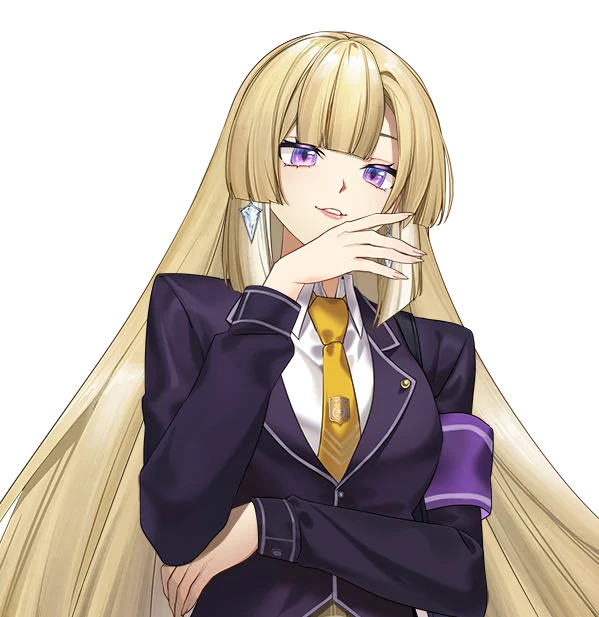
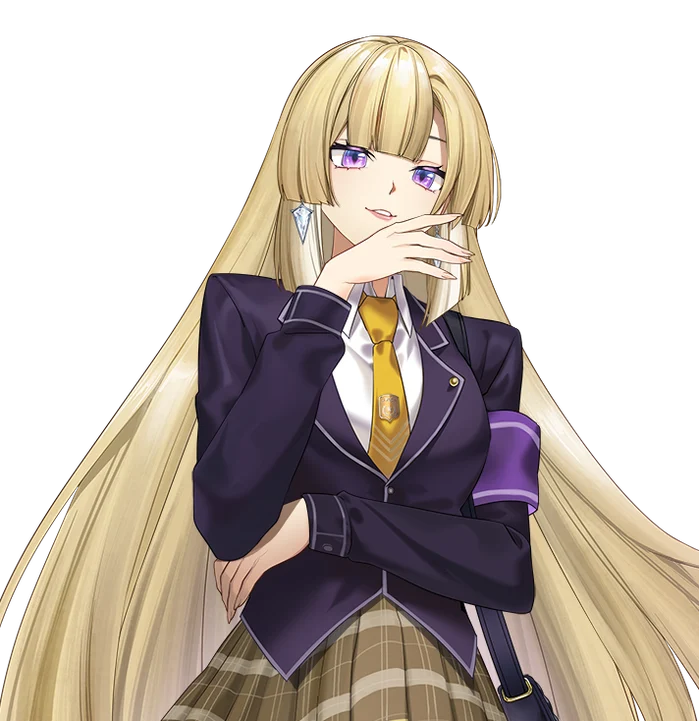
Wider look-2 half-body for Anya and Riona
Claude-Session: https://claude.ai/code/session_0182ETGqkY6VZC2ACV9rE9Mb

diff --git a/index.html b/index.html
@@ -950,8 +950,8 @@ var TALENTS = [
   { id:'lucene', halves:['talent-lucene-half.webp'], card:'talent-lucene-half.webp', img:'talent-lucene.webp', face:'talent-lucene-face.webp?v=7',  name:'Lucene', short:'Lucene', ini:'LC', type:'VTuber', aff:{name:'Polygon', logo:'logos/polygon-mark.png'}, langs:['th','en'], color:'#FDE2EE', tags:['#Singing','#FreeTalk','#Gaming','#Gacha'], works:['promo','review','cover','collab','dub'], links:[['YouTube',83400,'https://www.youtube.com/@LucenePLG'],['TikTok',24071,'https://www.tiktok.com/@plglucene'],['Facebook',20102,'https://www.facebook.com/LucenePolygon'],['X',19508,'https://x.com/LucenePLG']], quote:['ลูเซเน่ กระต่ายอนิเมะผู้เสกความสดใสและชอบเสี่ยงดวง💸','Lucene, an anime bunny who conjures up cheer and loves to try her luck 💸'] },
   { id:'lapine', halves:['talent-lapine-half.webp?v=3'], card:'talent-lapine-half.webp?v=3', img:'talent-lapine.webp', face:'talent-lapine-face.webp?v=7',  name:'Lapine', short:'Lapine', ini:'LP', type:'VTuber', aff:{name:'Polygon', logo:'logos/polygon-mark.png'}, langs:['th','en'], color:'#FFD9E4', tags:['#Singing','#FreeTalk','#Gaming'], works:['promo','review','cover','collab','dub'], links:[['YouTube',69355,'https://www.youtube.com/@LapinePLG'],['TikTok',8885,'https://www.tiktok.com/@lapineplg'],['Facebook',16150,'https://www.facebook.com/LapinePolygon'],['X',20482,'https://x.com/LapinePLG']], quote:['ลาพิเน่ กระต่ายสีชมพูที่คุณดูแล้วต้องกำหมัด','Lapine, the pink bunny so cute you will clench your fists.'] },
   { id:'luxia', halves:['talent-luxia-half.webp?v=4'], card:'talent-luxia-half.webp?v=4', img:'talent-luxia.webp?v=3', face:'talent-luxia-face.webp?v=8',  name:'Luxia', short:'Luxia', ini:'LX', type:'VTuber', aff:{name:'Polygon', logo:'logos/polygon-mark.png'}, langs:['th'], color:'#E7E1F7', tags:['#Singing','#FreeTalk','#Gaming','#Drawing'], works:['promo','review','collab','dub'], links:[['YouTube',57079,'https://www.youtube.com/@LuxiaPLG'],['TikTok',15700,'https://www.tiktok.com/@luxiaplg'],['Facebook',12455,'https://www.facebook.com/LuxiaPolygon'],['X',16481,'https://x.com/LuxiaPLG']], quote:['ลูเซีย แม่ชีนักวาดผู้ไม่อาจหยุดความวายป่วง','Luxia, an artist nun who simply cannot stop the chaos.'] },
-  { id:'riona', halves:['talent-riona-half.webp?v=3','talent-riona-2-half.webp?v=4'], card:'talent-riona-half.webp?v=3', img:'talent-riona.webp', face:'talent-riona-face.webp?v=7', forms:['talent-riona.webp','talent-riona-2.webp'],  name:'Riona', short:'Riona', ini:'RN', type:'VTuber', aff:{name:'Polygon', logo:'logos/polygon-mark.png'}, langs:['th','en'], color:'#FFE7C7', tags:['#Singing','#FreeTalk','#Gaming','#RolePlay'], works:['promo','review','collab','dub'], links:[['YouTube',16208,'https://www.youtube.com/@RionaPLG'],['TikTok',4081,'https://www.tiktok.com/@rionaplg'],['Facebook',10980,'https://www.facebook.com/RionaPolygon'],['X',4583,'https://x.com/RionaPLG']], quote:['เสือ สวย รวย และน่าน้วยก็ได้ ประธานนักเรียนรุ่นที่ 10 โรงเรียน PLG ริโอน่า สวัสดีค่ะ','A tiger: pretty, rich, and cuddly if you like. Hello, I am Riona, 10th student council president of PLG School!'] },
-  { id:'anya', halves:['talent-anya-half.webp?v=3','talent-anya-2-half.webp?v=4'], card:'talent-anya-half.webp?v=3', img:'talent-anya.webp?v=2', face:'talent-anya-face.webp?v=7', forms:['talent-anya.webp?v=2','talent-anya-2.webp'],  name:'Anya', short:'Anya', ini:'AY', type:'VTuber', aff:{name:'Polygon', logo:'logos/polygon-mark.png'}, langs:['th'], color:'#DCEFE3', tags:['#Singing','#FreeTalk','#Gaming','#HandCam'], works:['promo','review','collab','dub'], links:[['YouTube',19635,'https://www.youtube.com/@AnyaPLG'],['TikTok',8095,'https://www.tiktok.com/@anyaplg'],['Facebook',7139,'https://www.facebook.com/AnyaPolygon'],['X',4071,'https://x.com/AnyaPLG']], quote:['ลึกแต่ไม่ลับ คับแต่ไม่แคบ ไม่ใช่แค่ช้าง แต่เป็นแมมมอธ แฮ่ !','Deep but no secrets, packed but never cramped. Not just an elephant, a mammoth. Rawr!'] },
+  { id:'riona', halves:['talent-riona-half.webp?v=3','talent-riona-2-half.webp?v=5'], card:'talent-riona-half.webp?v=3', img:'talent-riona.webp', face:'talent-riona-face.webp?v=7', forms:['talent-riona.webp','talent-riona-2.webp'],  name:'Riona', short:'Riona', ini:'RN', type:'VTuber', aff:{name:'Polygon', logo:'logos/polygon-mark.png'}, langs:['th','en'], color:'#FFE7C7', tags:['#Singing','#FreeTalk','#Gaming','#RolePlay'], works:['promo','review','collab','dub'], links:[['YouTube',16208,'https://www.youtube.com/@RionaPLG'],['TikTok',4081,'https://www.tiktok.com/@rionaplg'],['Facebook',10980,'https://www.facebook.com/RionaPolygon'],['X',4583,'https://x.com/RionaPLG']], quote:['เสือ สวย รวย และน่าน้วยก็ได้ ประธานนักเรียนรุ่นที่ 10 โรงเรียน PLG ริโอน่า สวัสดีค่ะ','A tiger: pretty, rich, and cuddly if you like. Hello, I am Riona, 10th student council president of PLG School!'] },
+  { id:'anya', halves:['talent-anya-half.webp?v=3','talent-anya-2-half.webp?v=5'], card:'talent-anya-half.webp?v=3', img:'talent-anya.webp?v=2', face:'talent-anya-face.webp?v=7', forms:['talent-anya.webp?v=2','talent-anya-2.webp'],  name:'Anya', short:'Anya', ini:'AY', type:'VTuber', aff:{name:'Polygon', logo:'logos/polygon-mark.png'}, langs:['th'], color:'#DCEFE3', tags:['#Singing','#FreeTalk','#Gaming','#HandCam'], works:['promo','review','collab','dub'], links:[['YouTube',19635,'https://www.youtube.com/@AnyaPLG'],['TikTok',8095,'https://www.tiktok.com/@anyaplg'],['Facebook',7139,'https://www.facebook.com/AnyaPolygon'],['X',4071,'https://x.com/AnyaPLG']], quote:['ลึกแต่ไม่ลับ คับแต่ไม่แคบ ไม่ใช่แค่ช้าง แต่เป็นแมมมอธ แฮ่ !','Deep but no secrets, packed but never cramped. Not just an elephant, a mammoth. Rawr!'] },
   { id:'monace', halves:['talent-monace-half.webp?v=4'], card:'talent-monace-half.webp?v=4', img:'talent-monace.webp', face:'talent-monace-face.webp?v=7',  name:'Monace', short:'Monace', ini:'MN', type:'VTuber', aff:{name:'Polygon', logo:'logos/polygon-mark.png'}, langs:['th','en'], color:'#D9E4F5', tags:['#Singing','#FreeTalk','#Gaming','#SongComposer'], works:['promo','review','cover','collab','dub'], links:[['YouTube',2608,'https://www.youtube.com/@MONACEPLG'],['TikTok',1735,'https://www.tiktok.com/@monaceplg'],['Facebook',558,'https://www.facebook.com/MONACEPLG'],['X',1477,'https://x.com/MONACEPLG']], quote:['แรปเปอร์ตัวตึงอาจจะดูเท่ แต่ใจดี พร้อมอยู่ข้างๆ ให้คุณรู้สึกสบายใจเสมอ โซโล โมเนซ ครับ 🪽','A rapper who may look tough but has a kind heart, always by your side to put you at ease. Solo Monace here 🪽'] },
   { id:'vinxiii', halves:['talent-vinxiii-half.webp?v=2'], card:'talent-vinxiii-half.webp?v=2', img:'talent-vinxiii.webp', face:'talent-vinxiii-face.webp?v=7',  name:'VinXIII', short:'VinXIII', ini:'VX', type:'VTuber', aff:{name:'Polygon', logo:'logos/polygon-mark.png'}, langs:['th'], color:'#F6E7C8', tags:['#Singing','#FreeTalk','#Gaming'], works:['promo','review','cover','collab'], links:[['YouTube',1715,'https://www.youtube.com/@VinXIIIPLG'],['TikTok',1187,'https://www.tiktok.com/@vinxiiiplg'],['Facebook',139,'https://www.facebook.com/VinXIIIPLG'],['X',2175,'https://x.com/VinXIIIPLG']], quote:['ถ้าตามหาคนที่จะทำให้หัวเราะได้ วินซี่ อยู่ตรงนี้เองครับ ที่ไม่ว่าอยู่ที่ไหนก็ทำให้บรรยากาศสดใสขึ้นทันที ⚜','Looking for someone to make you laugh? Vinzy is right here, brightening the room wherever he goes ⚜'] },
   { id:'augustine', halves:['talent-augustine-half.webp?v=5'], card:'talent-augustine-half.webp?v=5', img:'talent-augustine.webp', face:'talent-augustine-face.webp?v=7',  name:'Augustine', short:'Augustine', ini:'AG', type:'VTuber', aff:{name:'Polygon', logo:'logos/polygon-mark.png'}, langs:['th','en'], color:'#E3F0FA', tags:['#Singing','#FreeTalk','#Gaming','#Dentist'], works:['promo','review','cover','collab'], links:[['YouTube',10500,'https://www.youtube.com/@AugustinePLG'],['TikTok',37200,'https://www.tiktok.com/@augustineplg'],['Facebook',770,'https://www.facebook.com/AugustinePLG'],['X',4178,'https://x.com/AugustinePLG']], quote:['ออกัสทีนเองครับ มีทั้งความสวย ความหล่อ และพลังบวกที่จะทำให้คุณยิ้มได้ทุกวัน อยากมาลองชิมมั้ยครับ','Augustine here: pretty, handsome and full of good vibes to make you smile every day. Care for a taste?'] },
